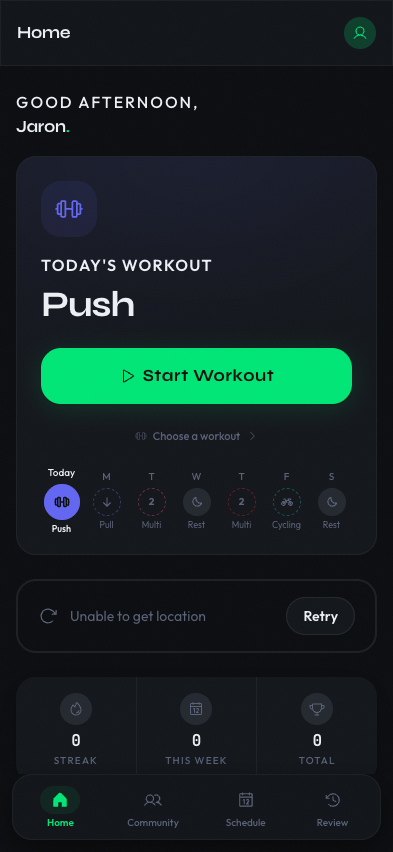
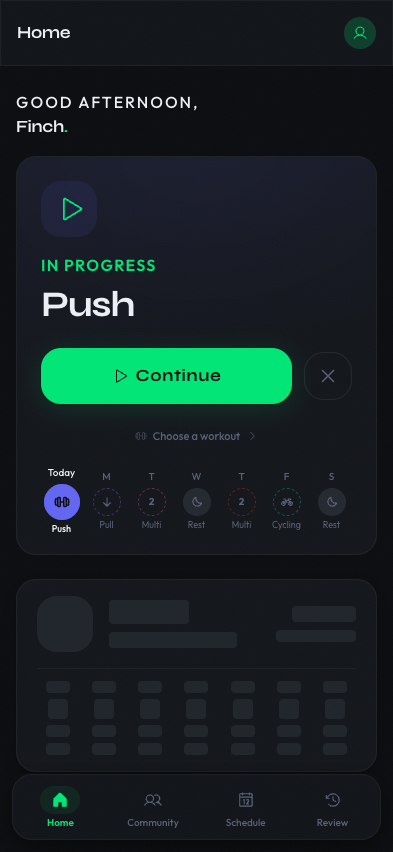
Update screenshots: Finch user profile, logged workout data, in-progress state
- Updated user to 'Finch' with avatar
- Home screen shows in-progress Push workout with Continue button
- Active workout shows completed warmup + bench press 185 lbs, incline DB 65 lbs
- Added profile screen showing settings and cycle config
- 9 screenshots showing the full user journey

diff --git a/README.md b/README.md
@@ -31,13 +31,17 @@ The app supports three workout modalities (weights, cardio, and mobility), inclu
 
 <div align="center">
 
-| Login | Training Split | Cycle Builder | Cycle Preview |
-|:---:|:---:|:---:|:---:|
-| ![Login](screenshots/01-login.png) | ![Training Split](screenshots/02-training-split.png) | ![Cycle Builder](screenshots/03-cycle-builder.png) | ![Cycle Preview](screenshots/04-cycle-preview.png) |
+| Login | Training Split | Cycle Builder |
+|:---:|:---:|:---:|
+| ![Login](screenshots/01-login.png) | ![Training Split](screenshots/02-training-split.png) | ![Cycle Builder](screenshots/03-cycle-builder.png) |
 
-| Home Dashboard | Workout Detail | Schedule | Community |
-|:---:|:---:|:---:|:---:|
-| ![Home](screenshots/05-home.png) | ![Workout](screenshots/06-workout-detail.png) | ![Schedule](screenshots/07-schedule.png) | ![Community](screenshots/08-community.png) |
+| Cycle Preview | Home (In Progress) | Active Workout |
+|:---:|:---:|:---:|
+| ![Cycle Preview](screenshots/04-cycle-preview.png) | ![Home](screenshots/05-home.png) | ![Active Workout](screenshots/06-active-workout.png) |
+
+| Schedule | Community | Profile |
+|:---:|:---:|:---:|
+| ![Schedule](screenshots/07-schedule.png) | ![Community](screenshots/08-community.png) | ![Profile](screenshots/09-profile.png) |
 
 </div>
 
